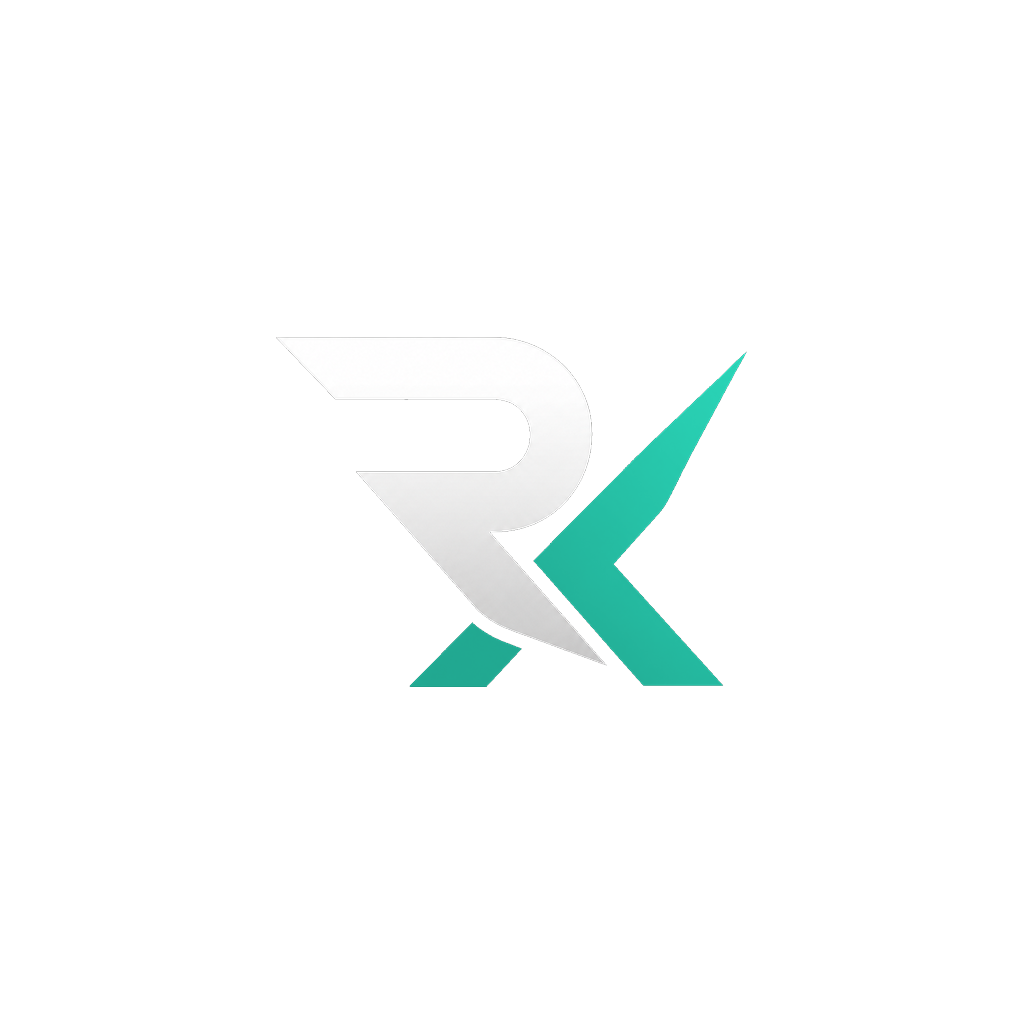
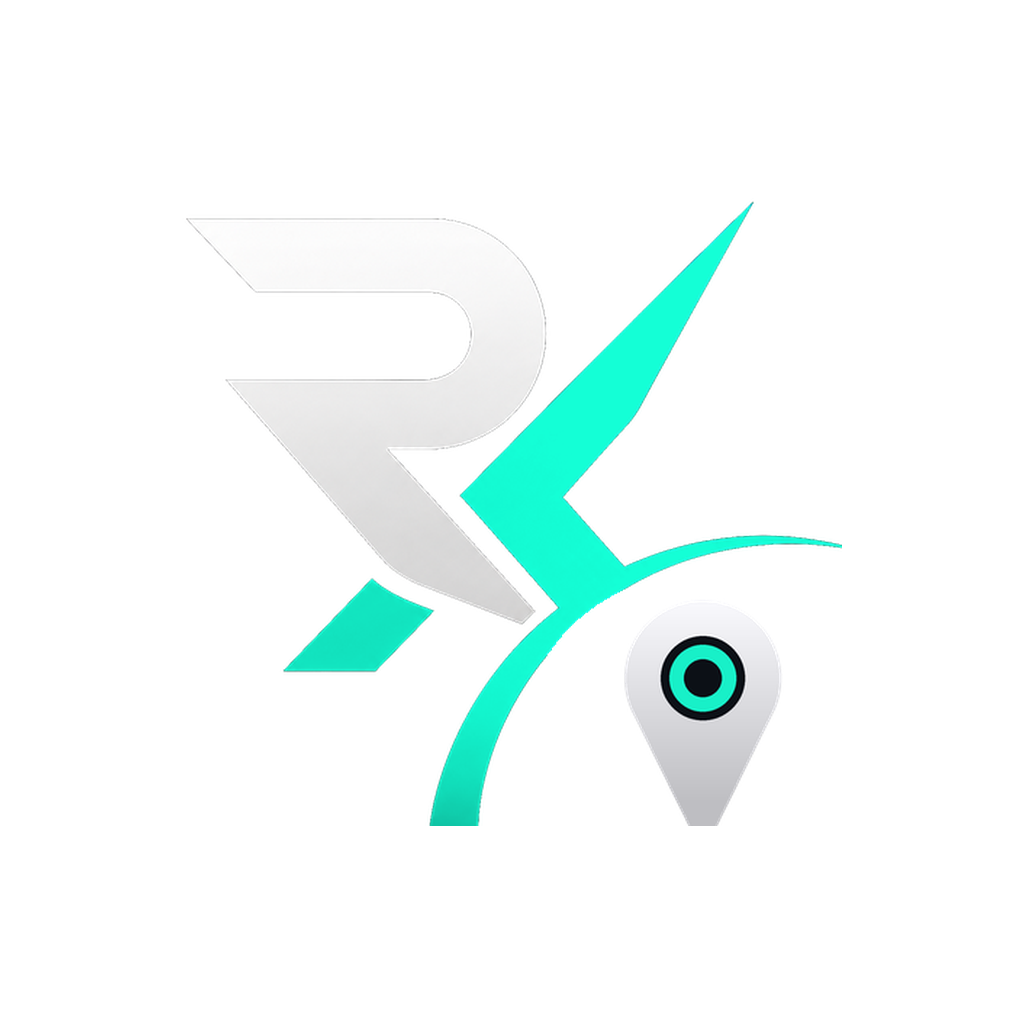
feat(rider): the partner's RX mark with a map pin in place of the wheel

Changed region(s): [[0.25, 0.2188, 0.8125, 0.8125], [0.7188, 0.1875, 0.75, 0.2188], [0.2812, 0.3438, 0.3125, 0.375]]

diff --git a/ridex-rider-app/src/screens/SplashScreen.tsx b/ridex-rider-app/src/screens/SplashScreen.tsx
@@ -71,9 +71,9 @@ const styles = StyleSheet.create({
     justifyContent: 'center',
   },
   mark: {
-    // The app icon's RX mark, at its own 853:633 aspect.
+    // The app icon's RX mark, square like the partner app's.
     width: 108,
-    height: 80,
+    height: 108,
     resizeMode: 'contain',
   },
   name: {
